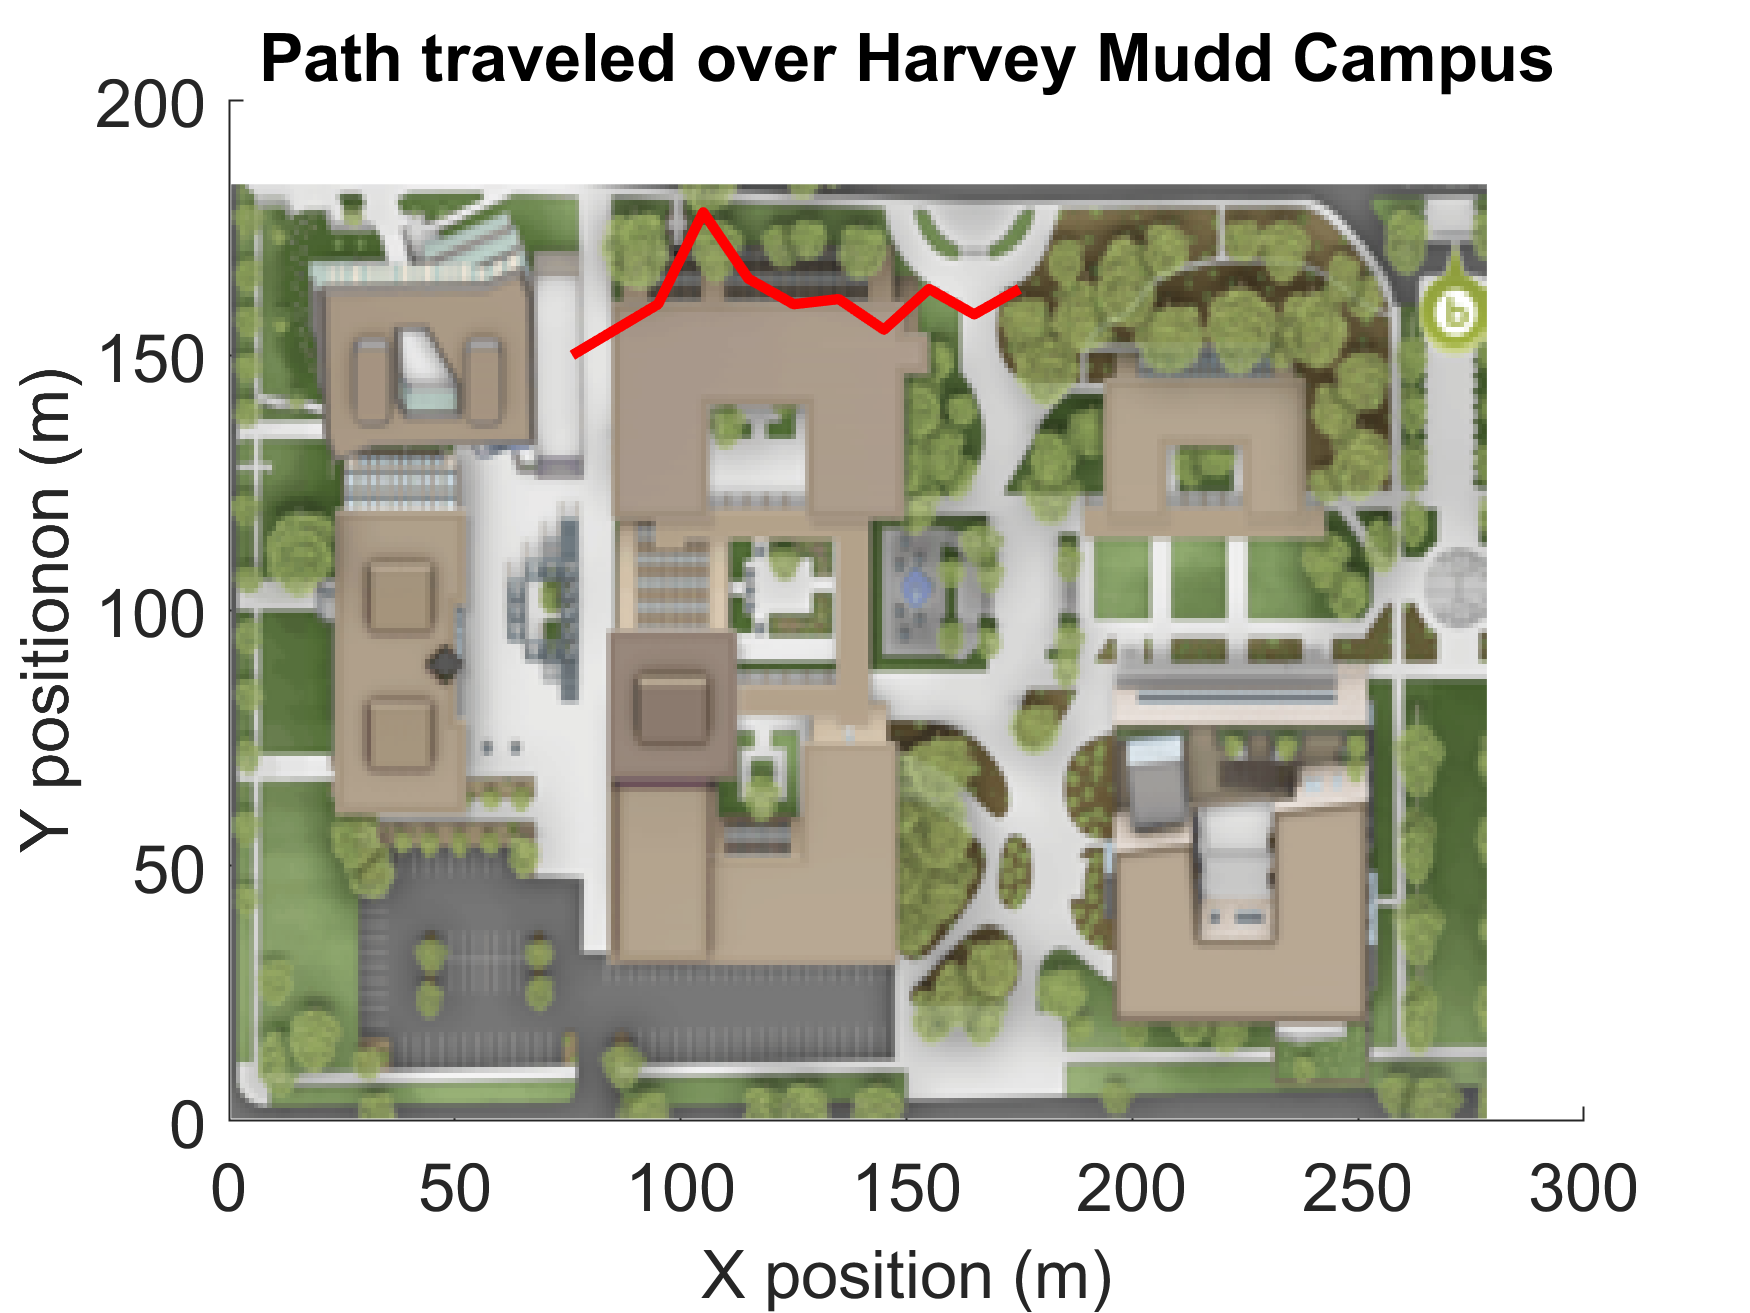
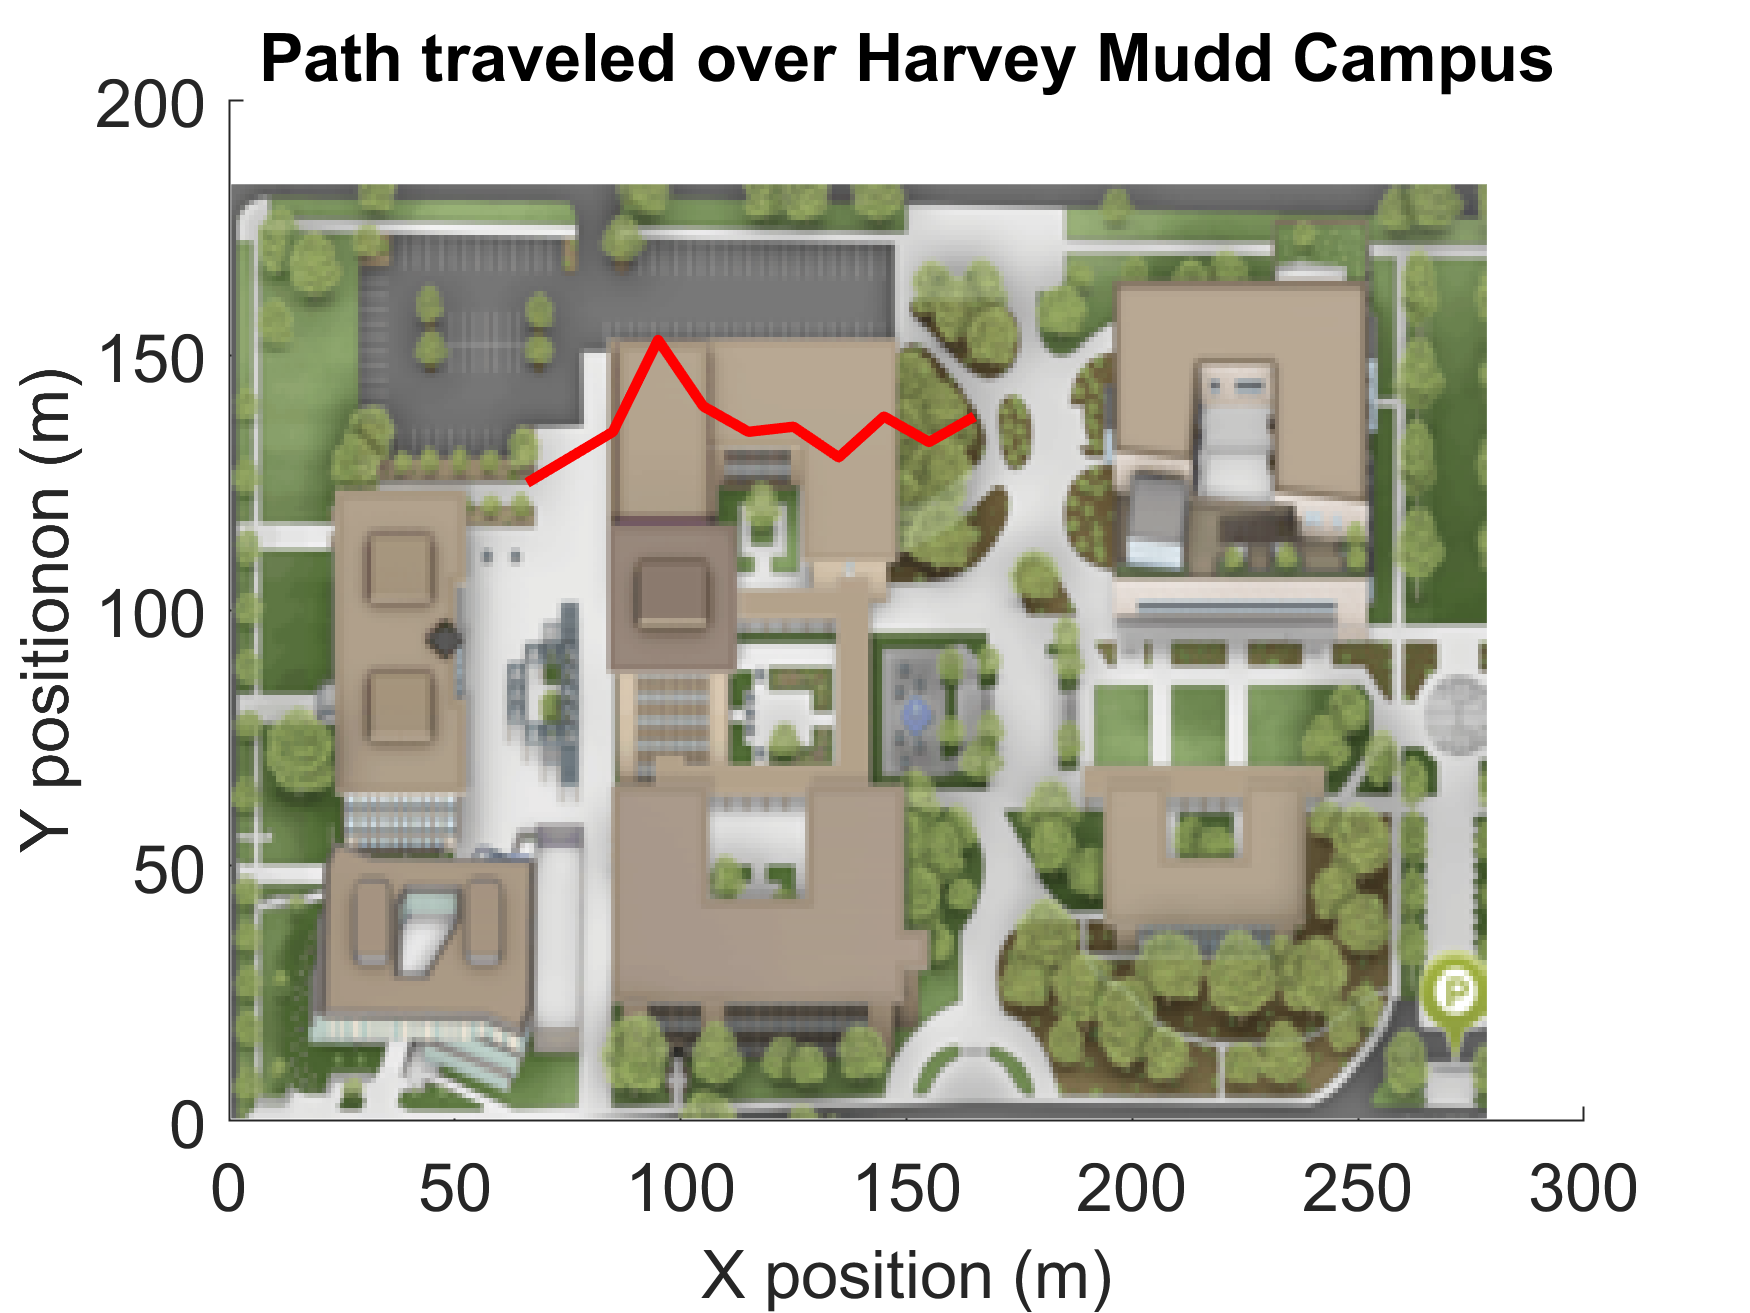
map was flipped

diff --git a/labs/lab_07/E80_Lab_07/PositionPlotting.m b/labs/lab_07/E80_Lab_07/PositionPlotting.m
@@ -2,14 +2,15 @@
 % reads from Teensy data stream
 filename= .001;
 map = imread("campusmap.png");
-imgdim = size(map)
-xdim = imgdim(1)
-ydim = imgdim(2)
+map = flip(map);
+imgdim = size(map);
+xdim = imgdim(1);
+ydim = imgdim(2);
 realx = 260 % real map width, in meters, approximated using google maps
 realy = 160 % real map height, in meters, approximated using google maps
-imgScale = mean([realx/xdim, realy/ydim])
+imgScale = mean([realx/xdim, realy/ydim]);
 map = imresize(map, imgScale);
-positionPlotter(map)
+positionPlotter(map);
 
 function position=positionPlotter(map)
 
@@ -21,9 +22,9 @@ function position=positionPlotter(map)
     startSampleNo = 1;
     stopSampleNo = 10;
     xScaleFactor = 1;
-    xShift = 75; % origin is ~75m east of plot origin
+    xShift = 65; % origin is ~60m east of plot origin
     yScaleFactor = 1;
-    yShift = 140; % origin is ~140m north of plot origin
+    yShift = 115; % origin is ~110m north of plot origin
     
     fh = figure;
     set(fh, 'color', [1 1 1]);  
